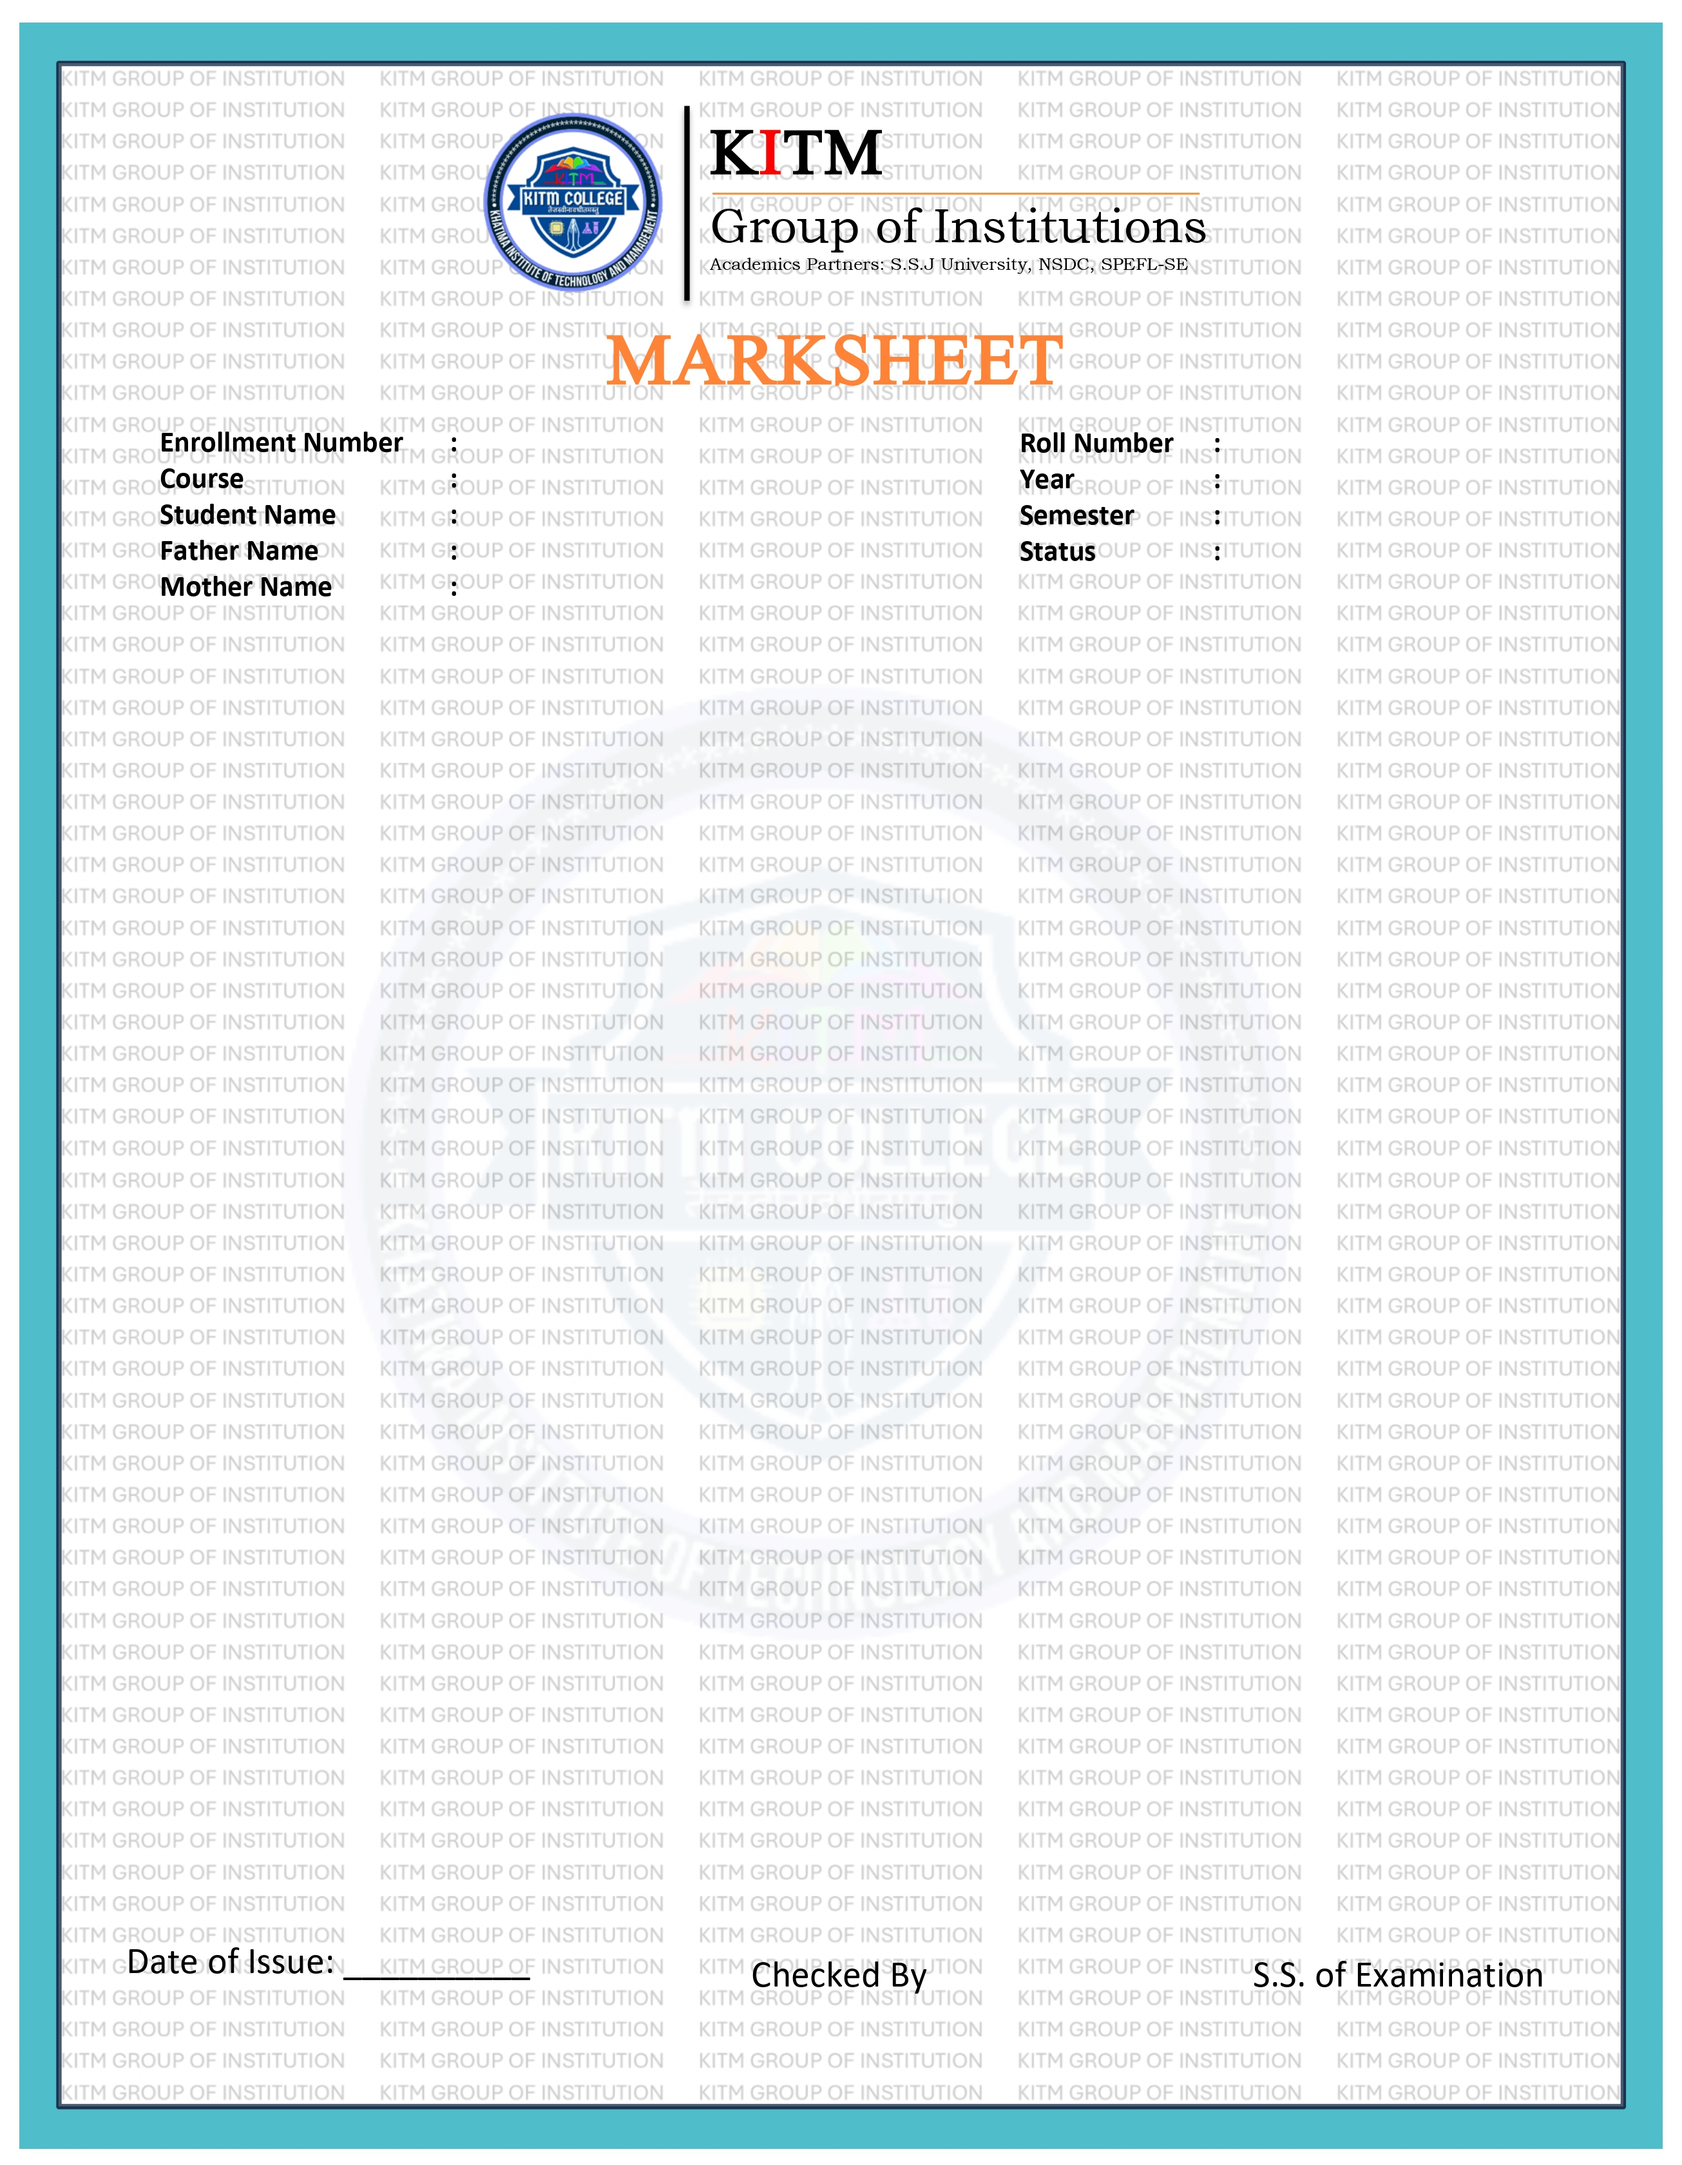
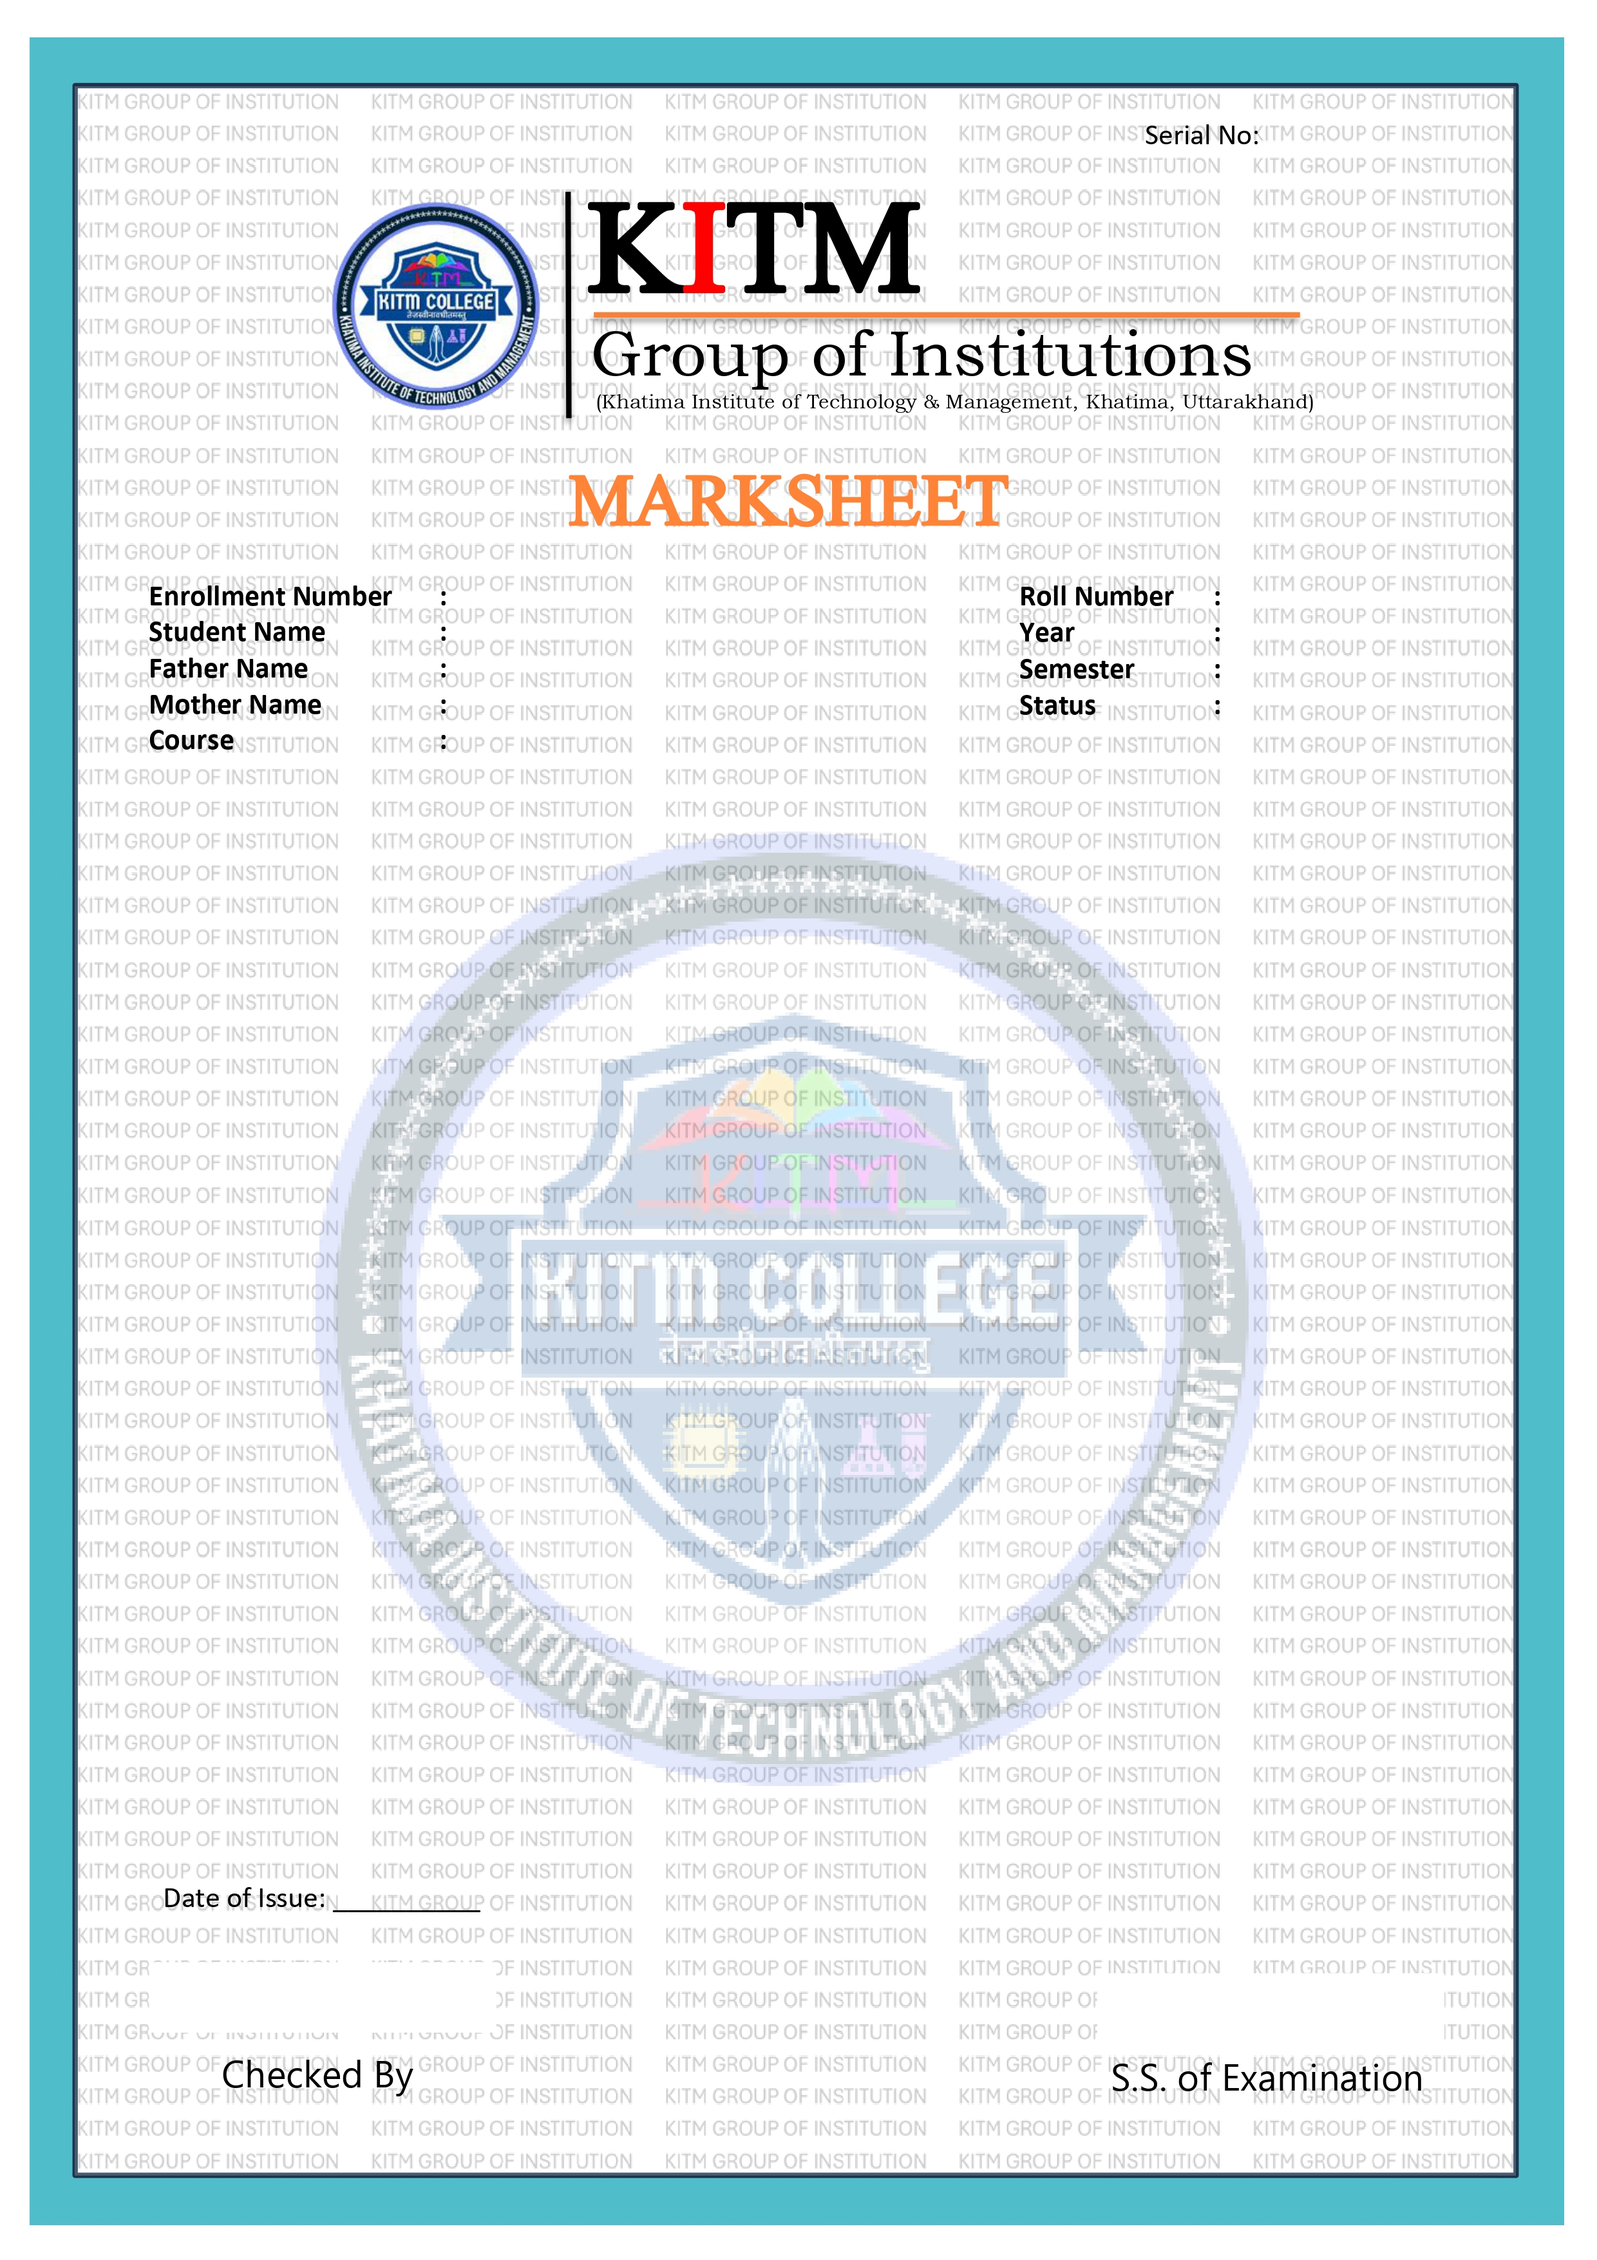
update marksheet of kitm

diff --git a/assets/formats/kitm/marksheet.php b/assets/formats/kitm/marksheet.php
@@ -107,16 +107,18 @@
     <?php
     $myduration = humnize_duration_with_ordinal($marksheet_duration, $duration_type);
     ?>
-    <!-- <p class="position-absolute" style="top:2.6%;left:11%;width:120px">{serial_no}</p> -->
-    <p class="position-absolute" style="top:16.5%;left:76%;width:220px;text-align:left">{enrollment_no}</p>
-    <p class="position-absolute " style="top:16.5%;left:28%;width:220px;text-align:left">{roll_no}</p>
-    <p class="position-absolute" style="top:18.2%;left:28%;width:260px;text-align:left">{student_name}</p>
-    <p class="position-absolute" style="top:18.2%;left:76%;text-align:left">{session}</p>
-    <p class="position-absolute" style="top:19.6%;left:28%;width:255px;text-align:left">{father_name}</p>
-    <p class="position-absolute" style="top:19.6%;left:76%;text-align:left"> <?= $myduration ?></p>
-    <p class="position-absolute" style="top:21%;left:28%;width:255px;text-align:left">{mother_name}</p>
-    <p class="position-absolute" style="top:21%;left:76%;text-align:left">Regular</p>
-    <p class="position-absolute " style="top:22.7%;left:28%;width:460px;line-height:1;text-align:left">{course_name}</p>
+    <p class="position-absolute" style="top:3.8%;left:76.5%;width:120px"><?php
+    echo '100' . date('Y', strtotime($issue_date)) . $result_id;
+    ?></p>
+    <p class="position-absolute" style="top:24.2%;left:78%;width:220px;text-align:left">{enrollment_no}</p>
+    <p class="position-absolute" style="top:24.2%;left:30%;width:220px;text-align:left">{roll_no}</p>
+    <p class="position-absolute" style="top:25.7%;left:30%;width:260px;text-align:left">{student_name}</p>
+    <p class="position-absolute" style="top:25.7%;left:78%;text-align:left">{session}</p>
+    <p class="position-absolute" style="top:27.4%;left:30%;width:255px;text-align:left">{father_name}</p>
+    <p class="position-absolute" style="top:27.4%;left:78%;text-align:left"> <?= $myduration ?></p>
+    <p class="position-absolute" style="top:29%;left:30%;width:255px;text-align:left">{mother_name}</p>
+    <p class="position-absolute" style="top:29%;left:78%;text-align:left">Regular</p>
+    <p class="position-absolute " style="top:30.8%;left:30%;width:460px;line-height:1;text-align:left">{course_name}</p>
     <?php
     /*
     <p class="position-absolute " style="text-align:left;top:31.3%;left:53%;width:500px;line-height:1;font-size:14px">
@@ -126,14 +128,14 @@
     <p class="position-absolute" style="top:37.9%;left:30%;width:60%;line-height:1;text-align:left">{center_name}</p>
     <!-- <p class="position-absolute " style="top:31.1%;left:36.5%">{mother_name}</p> -->
     <!-- <p class="position-absolute " style="top:35.3%;left:36.5%">{center_name}</p> -->
-    <p class="position-absolute" style="top:36%;left:76%;width:120px;text-align:left"><?= $myduration ?></p>
+    <p class="position-absolute" style="top:36%;left:78%;width:120px;text-align:left"><?= $myduration ?></p>
     <!-- <p class="position-absolute " style="top:39.6%;left:36.5%">{dob}</p> -->
     <!-- <div class="position-absolute" style="top:25.96%;left:86.1%;">
         <img src="upload/{image}" style="width:48.1px;height:57px;" alt="">
     </div> -->
     */
     ?>
-    <div class="position-absolute " style="top:28%;left:8%;width:84%">
+    <div class="position-absolute " style="top:34%;left:8%;width:84%">
         <table id="first" border="0" style="width:100%">
             <thead>
                 <tr>
@@ -154,20 +156,21 @@
             <tbody>
                 <?php
                 // pre(getMark($marks);
-                foreach($marks as $mark):
+                foreach ($marks as $mark):
 
-                ?>
-                <tr>
-                    <td class="primary lb"><?=getMark($mark['subject_code'])?></td>
-                    <td class="primary lb" style="text-align:left;padding-left:6px;font-size:12.81px"><?=getMark($mark['subject_name'])?>
-                    </td>
-                    <td class="primary lb" style="font-size:12.81px"><?=getMark($mark['theory_max_marks'])?></td>
-                    <td class="primary lb" style="font-size:12.81px"><?=getMark($mark['practical_max_marks'])?></td>
-                    <td class="primary lb" style="font-size:12.81px"><?=getMark($mark['theory_total'])?></td>
-                    <td class="primary lb" style="font-size:12.81px"><?=getMark($mark['practical_total'])?></td>
-                    <td class="fw lb" style="font-size:12.81px"><?=getMark($mark['total'])?></td>
-                </tr>
-                <?php
+                    ?>
+                    <tr>
+                        <td class="primary lb"><?= getMark($mark['subject_code']) ?></td>
+                        <td class="primary lb" style="text-align:left;padding-left:6px;font-size:12.81px">
+                            <?= getMark($mark['subject_name']) ?>
+                        </td>
+                        <td class="primary lb" style="font-size:12.81px"><?= getMark($mark['theory_max_marks']) ?></td>
+                        <td class="primary lb" style="font-size:12.81px"><?= getMark($mark['practical_max_marks']) ?></td>
+                        <td class="primary lb" style="font-size:12.81px"><?= getMark($mark['theory_total']) ?></td>
+                        <td class="primary lb" style="font-size:12.81px"><?= getMark($mark['practical_total']) ?></td>
+                        <td class="fw lb" style="font-size:12.81px"><?= getMark($mark['total']) ?></td>
+                    </tr>
+                    <?php
                 endforeach;
                 ?>
             </tbody>
@@ -194,8 +197,22 @@
         return $num;
     }
     ?>
-    
-    <p class="position-absolute" style="bottom:15.3%;left:22%;width:138px;text-align:left">{issue_date}</p>
+    <p class="position-absolute" style="top:70%;left:18%;font-weight:600;font-size:17px">
+        Result: {division}
+    </p>
+    <p class="position-absolute" style="top:70%;left:40%;font-weight:600;font-size:17px">
+        Max Total: {max_total}
+    </p>
+    <p class="position-absolute" style="top:70%;left:60%;font-weight:600;font-size:17px">
+        Max Obt: {obtain_total}
+    </p>
+    <p class="position-absolute text-center" style="top:74%;left:10%;width:80%">
+        Candidate should pass seprately in each paper(Theory/Practical and Extarnal/Internal) with 40% marks.
+    </p>
+    <div class="position-absolute" style="left:45%;top:87%">
+        <img src="upload/images/front_marksheet_{result_id}.png" style="width:75px;border:1px solid black">
+    </div>
+    <p class="position-absolute" style="bottom:14.2%;left:21%;width:138px;text-align:left">{issue_date}</p>
 
 </body>
 
